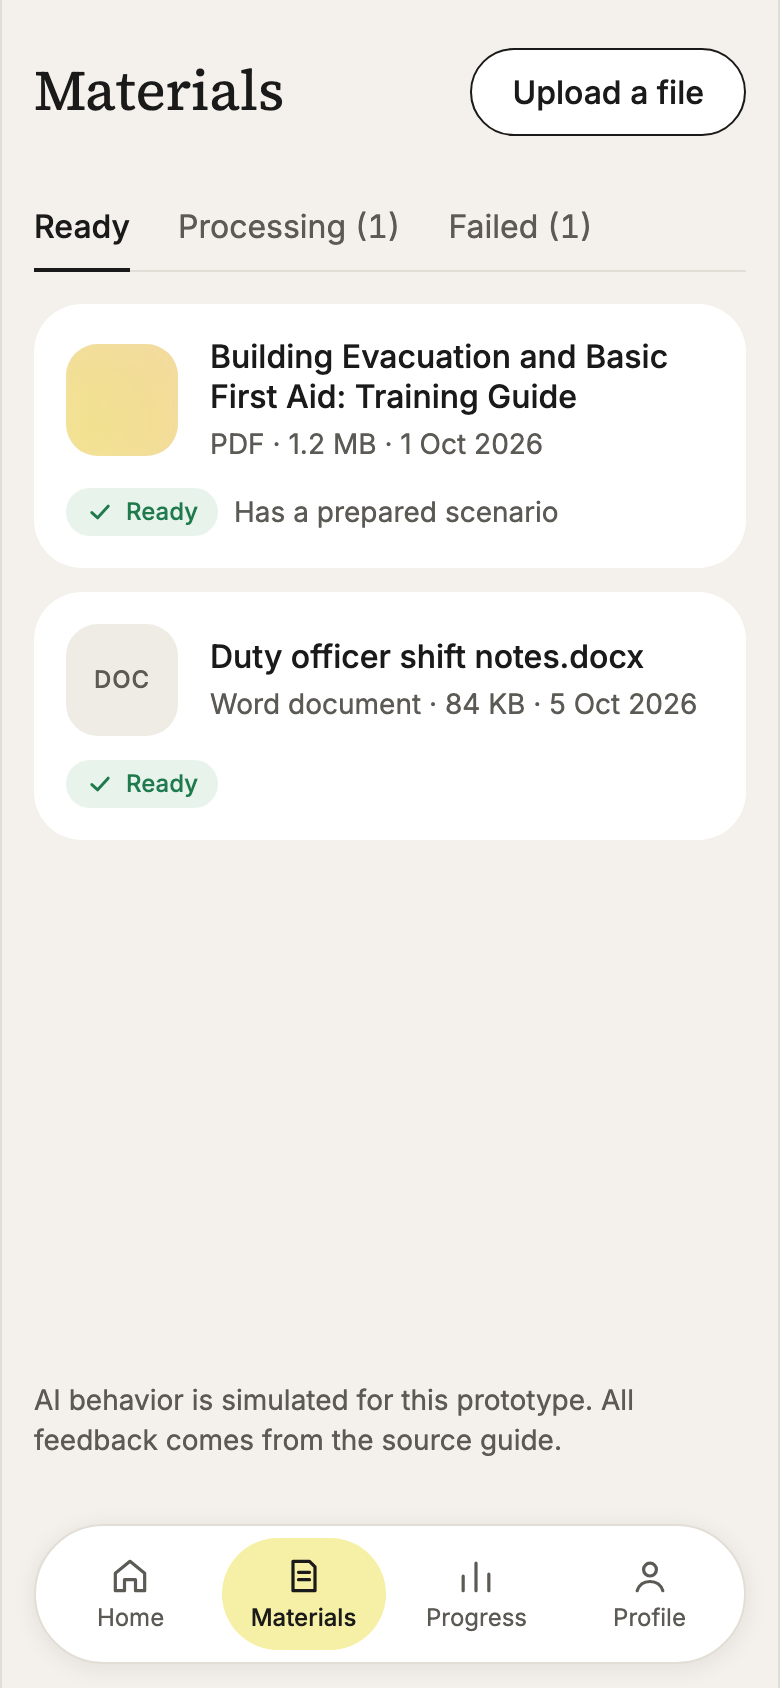
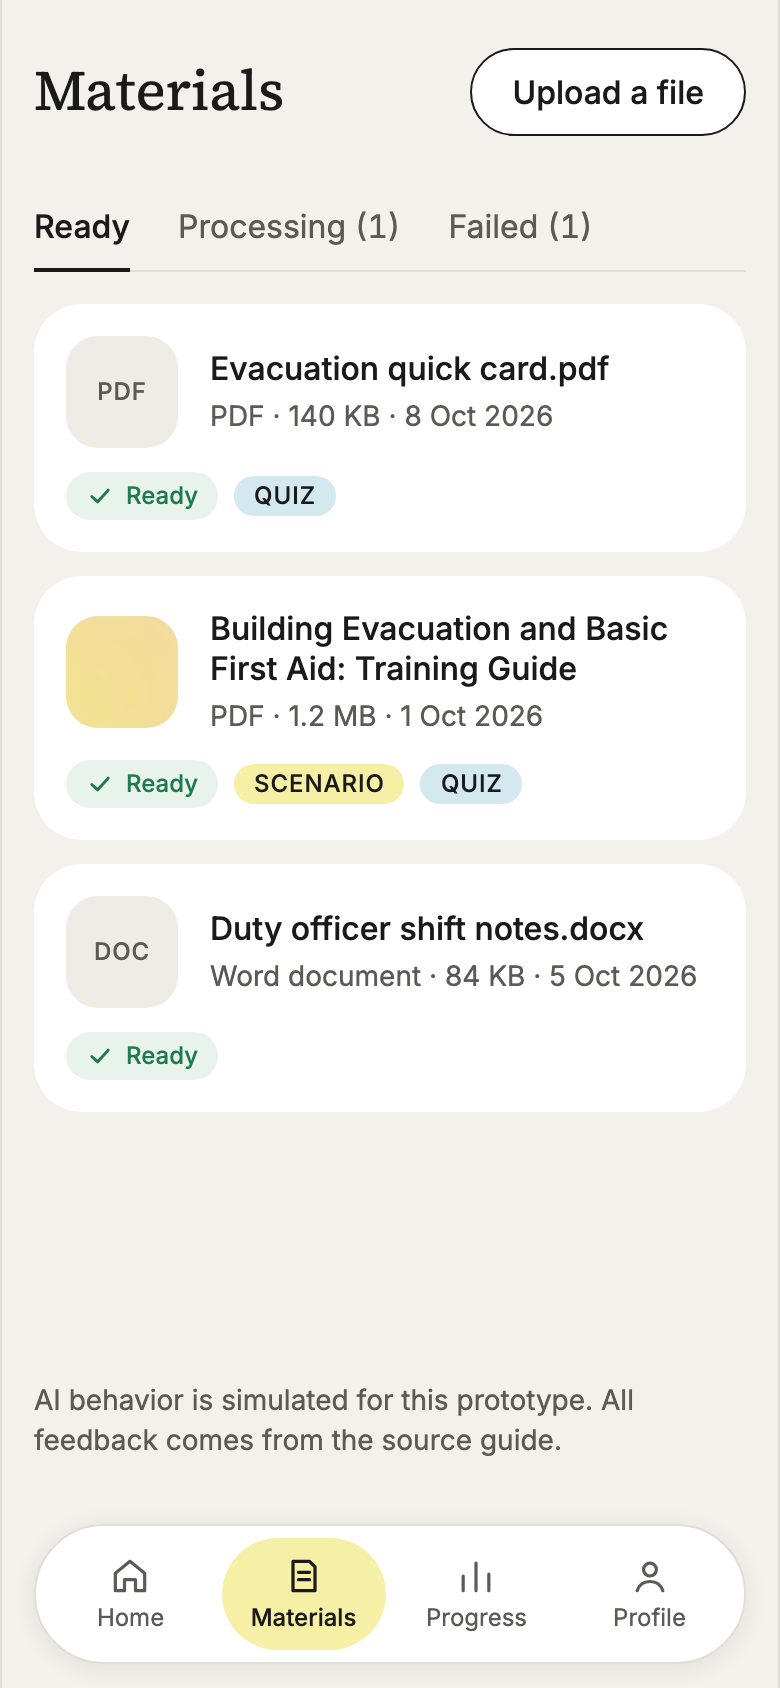
feat: training tags, start training and setup limited to the training
Materials show Scenario and Quiz tags once created; the material page offers
Create training, or Start training and Create again. Home New scenario and
onboarding open Create training. Session setup shows only the modes and
sections the training holds. Reset progress clears created trainings.

diff --git a/components/MaterialView/MaterialView.tsx b/components/MaterialView/MaterialView.tsx
@@ -1,5 +1,6 @@
 "use client";
 
+import { useRouter } from "next/navigation";
 import type { ReactNode } from "react";
 import { ActionBar } from "@/components/ActionBar/ActionBar";
 import { BackLink } from "@/components/BackLink/BackLink";
@@ -10,6 +11,8 @@ import { MaterialCover } from "@/components/MaterialCover/MaterialCover";
 import { useSourceSheet } from "@/components/SourceSheet/SourceSheet";
 import { StatusBadge } from "@/components/StatusBadge/StatusBadge";
 import { Tag } from "@/components/Tag/Tag";
+import { TrainingTags } from "@/components/TrainingTags/TrainingTags";
+import { startTraining, useTrainings } from "@/lib/trainings";
 import { UploadButton } from "@/components/UploadSheet/UploadSheet";
 import { formatAdded } from "@/lib/materials";
 import type { Material, MaterialSection } from "@/lib/materials";
@@ -64,6 +67,11 @@ export function MaterialView({
   sectionsOpenable: boolean;
   scenarioCard?: ReactNode;
 }) {
+  const router = useRouter();
+  const trainings = useTrainings();
+  const training = trainings === "loading" ? undefined : trainings?.[material.id];
+  const canCreate = material.status === "ready" && (material.sectionIds?.length ?? 0) > 0;
+
   return (
     <div className="flex flex-col gap-6">
       <BackLink href="/materials" label="Back to materials" />
@@ -75,6 +83,7 @@ export function MaterialView({
         )}
         <Tag tone="blue">{material.type}</Tag>
         <h1 className="font-serif text-2xl leading-tight break-words">{material.name}</h1>
+        <TrainingTags training={training} />
       </div>
 
       <Card>
@@ -122,14 +131,29 @@ export function MaterialView({
       </section>
 
       <ActionBar>
-        {material.hasScenario ? (
-          <ButtonLink href="/session/setup">Start scenario</ButtonLink>
+        {training ? (
+          <>
+            <Button
+              onClick={() => {
+                startTraining(material.id);
+                router.push("/session/setup");
+              }}
+            >
+              Start training
+            </Button>
+            <ButtonLink href={`/training/${material.id}`} variant="text">
+              Create again
+            </ButtonLink>
+          </>
+        ) : canCreate ? (
+          <ButtonLink href={`/training/${material.id}`}>Create training</ButtonLink>
         ) : (
           <>
             <p className="text-center text-sm text-text-secondary">
-              In this prototype a scenario is prepared for one material only.
+              In this prototype, training can be created from the sample guide and its quick card
+              only.
             </p>
-            <Button disabled>Start scenario</Button>
+            <Button disabled>Create training</Button>
             <ButtonLink href="/materials/evacuation-guide" variant="text">
               Open the sample guide
             </ButtonLink>

diff --git a/components/SessionSetup/SessionSetup.tsx b/components/SessionSetup/SessionSetup.tsx
@@ -11,6 +11,7 @@ import { Stepper } from "@/components/Stepper/Stepper";
 import { Tag } from "@/components/Tag/Tag";
 import { questionsFor, quizCounts } from "@/lib/quiz";
 import { scenario, sessionLengths } from "@/lib/scenario";
+import type { Training } from "@/lib/training";
 
 export type Length = "short" | "full" | "extended";
 
@@ -63,13 +64,26 @@ export function SessionSetup({
   onChange,
   onStart,
   replacesUnfinished = false,
+  training,
+  materialName,
 }: {
+  /** Shown under the title; the scenario's title when there is no training. */
+  materialName?: string;
+  /** The created training this setup belongs to; limits the modes and the quiz sections. */
+  training?: Pick<Training, "materialId" | "scenario" | "quiz" | "sections">;
   value: SetupValue;
   onChange: (value: SetupValue) => void;
   onStart: () => void;
   replacesUnfinished?: boolean;
 }) {
-  const { sections } = useSourceSheet();
+  const { sections: guideSections } = useSourceSheet();
+  const sections = training
+    ? guideSections.filter((section) => training.sections.includes(section.id))
+    : guideSections;
+  const modes = [
+    { value: "scenario" as const, label: "Scenario", allowed: !training || training.scenario },
+    { value: "quiz" as const, label: "Quiz", allowed: !training || training.quiz },
+  ].filter((mode) => mode.allowed);
   const { available, size } = quizSize(value);
   const quiz = value.mode === "quiz";
   const blocked = quiz && value.sections.length === 0;
@@ -83,22 +97,25 @@ export function SessionSetup({
 
   return (
     <div className="flex flex-col gap-6">
-      <BackLink href="/materials/evacuation-guide" />
+      <BackLink href={`/materials/${training?.materialId ?? "evacuation-guide"}`} />
       <div className="flex flex-col gap-1">
         <h1 className="font-serif text-2xl">Session setup</h1>
-        <p className="text-text-secondary">{scenario.title}</p>
+        <p className="break-words text-text-secondary">{materialName ?? scenario.title}</p>
       </div>
 
-      <SegmentedControl
-        name="mode"
-        legend="What do you want to do?"
-        options={[
-          { value: "scenario", label: "Scenario" },
-          { value: "quiz", label: "Quiz" },
-        ]}
-        value={value.mode}
-        onChange={(mode) => onChange({ ...value, mode })}
-      />
+      {modes.length > 1 ? (
+        <SegmentedControl
+          name="mode"
+          legend="What do you want to do?"
+          options={modes}
+          value={value.mode}
+          onChange={(mode) => onChange({ ...value, mode })}
+        />
+      ) : (
+        <p className="text-text-secondary">
+          This training has a {modes[0]?.value === "quiz" ? "quiz" : "scenario"} only.
+        </p>
+      )}
 
       {!quiz && (
         <fieldset className="flex flex-col gap-3">

diff --git a/components/MaterialsList/MaterialsList.tsx b/components/MaterialsList/MaterialsList.tsx
@@ -6,17 +6,22 @@ import { FileCover } from "@/components/FileCover/FileCover";
 import { MaterialCover } from "@/components/MaterialCover/MaterialCover";
 import { StatusBadge } from "@/components/StatusBadge/StatusBadge";
 import { Tabs, tabPanelProps } from "@/components/Tabs/Tabs";
+import { TrainingTags } from "@/components/TrainingTags/TrainingTags";
 import { UploadButton } from "@/components/UploadSheet/UploadSheet";
 import { formatAdded } from "@/lib/materials";
+import type { Training } from "@/lib/training";
+import { useTrainings } from "@/lib/trainings";
 import { useUploads } from "@/lib/uploads";
 import type { Material } from "@/lib/materials";
 
 function MaterialRow({
   material,
+  training,
   onUploadStart,
   onUploadEnd,
 }: {
   material: Material;
+  training: Training | undefined;
   onUploadStart: () => void;
   onUploadEnd: (status: "ready" | "failed") => void;
 }) {
@@ -33,9 +38,7 @@ function MaterialRow({
       </Link>
       <div className="flex flex-wrap items-center gap-2">
         <StatusBadge status={material.status} />
-        {material.hasScenario && (
-          <span className="text-sm text-text-secondary">Has a prepared scenario</span>
-        )}
+        <TrainingTags training={training} />
       </div>
       {material.status === "processing" && (
         <div
@@ -78,6 +81,7 @@ const emptyStates: Record<TabId, string> = {
 
 export function MaterialsList({ samples }: { samples: Material[] }) {
   const uploads = useUploads();
+  const trainings = useTrainings();
   const [tab, setTab] = useState<TabId>("ready");
   const all = [...(uploads === "loading" ? [] : (uploads ?? [])), ...samples];
   const count = (status: TabId) => all.filter((material) => material.status === status).length;
@@ -110,6 +114,7 @@ export function MaterialsList({ samples }: { samples: Material[] }) {
                 <li key={material.id}>
                   <MaterialRow
                     material={material}
+                    training={trainings === "loading" ? undefined : trainings?.[material.id]}
                     onUploadStart={() => setTab("processing")}
                     onUploadEnd={setTab}
                   />

diff --git a/app/(app)/session/setup/page.tsx b/app/(app)/session/setup/page.tsx
@@ -7,16 +7,36 @@ import type { SetupValue } from "@/components/SessionSetup/SessionSetup";
 import { pickQuestions } from "@/lib/quiz";
 import { sessionLengths } from "@/lib/scenario";
 import { startQuiz, startSession, useSession } from "@/lib/session";
+import type { Training } from "@/lib/training";
+import { sampleMaterials } from "@/lib/materials";
+import { useActiveTraining, useTrainings } from "@/lib/trainings";
+import { useMaterial } from "@/lib/uploads";
 
-export default function SetupPage() {
+function Setup({
+  training,
+  materialName,
+}: {
+  training: Training | undefined;
+  materialName: string | undefined;
+}) {
   const router = useRouter();
-  const [value, setValue] = useState<SetupValue>(defaultSetup);
   const session = useSession();
+  const [value, setValue] = useState<SetupValue>(() =>
+    training
+      ? {
+          ...defaultSetup,
+          mode: training.scenario ? "scenario" : "quiz",
+          sections: training.sections,
+        }
+      : defaultSetup,
+  );
 
   return (
     <SessionSetup
       value={value}
       onChange={setValue}
+      training={training}
+      materialName={materialName}
       replacesUnfinished={session !== "loading" && session !== null && !session.finished}
       onStart={() => {
         if (value.mode === "quiz") {
@@ -26,6 +46,21 @@ export default function SetupPage() {
         }
         router.push("/session");
       }}
+    />
+  );
+}
+
+export default function SetupPage() {
+  const trainings = useTrainings();
+  const active = useActiveTraining();
+  const material = useMaterial(active === "loading" ? "" : (active ?? ""), sampleMaterials);
+  if (trainings === "loading" || active === "loading" || material === "loading") return null;
+  const training = active ? trainings?.[active] : undefined;
+  return (
+    <Setup
+      key={training?.materialId ?? "none"}
+      training={training}
+      materialName={training && material ? material.name : undefined}
     />
   );
 }

diff --git a/components/ProfileView/ProfileView.tsx b/components/ProfileView/ProfileView.tsx
@@ -37,7 +37,8 @@ export function ProfileView({
           <div className="flex flex-col gap-1">
             <h3 className="font-medium">Reset progress</h3>
             <p className="text-sm text-text-secondary">
-              Deletes your saved sessions and weak topics on this device. Your direction stays.
+              Deletes your saved sessions, weak topics and created trainings on this device. Your
+              direction and uploaded files stay.
             </p>
           </div>
           <div>
@@ -47,7 +48,7 @@ export function ProfileView({
           </div>
           {resetDone && (
             <p role="status" className="text-sm">
-              Progress reset. Your sessions and weak topics are deleted.
+              Progress reset. Your sessions, weak topics and created trainings are deleted.
             </p>
           )}
         </div>
@@ -58,7 +59,7 @@ export function ProfileView({
           open={confirming}
           inline={dialogInline}
           title="Reset progress?"
-          description="This deletes your saved sessions and weak topics on this device. It cannot be undone."
+          description="This deletes your saved sessions, weak topics and created trainings on this device. It cannot be undone."
           confirmLabel="Reset progress"
           onConfirm={onReset}
           onCancel={onCancelReset}

diff --git a/components/UploadSheet/UploadSheet.tsx b/components/UploadSheet/UploadSheet.tsx
@@ -29,7 +29,9 @@ export function UploadPanel({
   onChooseFile,
   onClose,
   onOpenMaterial,
+  onCreateTraining,
 }: {
+  onCreateTraining: (id: string) => void;
   stage: Stage;
   onStage: (stage: Stage) => void;
   onChooseFile: (file: SampleFile) => void;
@@ -115,7 +117,10 @@ export function UploadPanel({
           ) : (
             <>
               <p className="text-text-secondary">The file is in your materials, under Ready.</p>
-              <Button onClick={() => onOpenMaterial(stage.material.id)}>Open material</Button>
+              <Button onClick={() => onCreateTraining(stage.material.id)}>Create training</Button>
+              <Button variant="text" onClick={() => onOpenMaterial(stage.material.id)}>
+                Open material
+              </Button>
             </>
           )}
         </div>
@@ -205,6 +210,10 @@ export function UploadButton({
           onOpenMaterial={(id) => {
             dialogRef.current?.close();
             router.push(`/materials/${id}`);
+          }}
+          onCreateTraining={(id) => {
+            dialogRef.current?.close();
+            router.push(`/training/${id}`);
           }}
         />
       </dialog>

diff --git a/components/HomeView/HomeView.tsx b/components/HomeView/HomeView.tsx
@@ -89,7 +89,7 @@ export function HomeView({
           </p>
           {unfinished && (
             <div className="mt-2">
-              <ButtonLink href="/session/setup" variant="secondary">
+              <ButtonLink href="/training/evacuation-guide" variant="secondary">
                 Start a new scenario
               </ButtonLink>
             </div>
@@ -101,7 +101,7 @@ export function HomeView({
         {unfinished ? (
           <ButtonLink href="/session">Continue session</ButtonLink>
         ) : (
-          <ButtonLink href="/session/setup">New scenario</ButtonLink>
+          <ButtonLink href="/training/evacuation-guide">New scenario</ButtonLink>
         )}
       </ActionBar>
     </div>

diff --git a/components/TrainingTags/TrainingTags.tsx b/components/TrainingTags/TrainingTags.tsx
@@ -1,0 +1,13 @@
+import { Tag } from "@/components/Tag/Tag";
+import type { Training } from "@/lib/training";
+
+/** Small "Scenario" and "Quiz" tags for a material whose training has been created. */
+export function TrainingTags({ training }: { training: Training | undefined }) {
+  if (!training) return null;
+  return (
+    <span className="flex flex-wrap gap-2">
+      {training.scenario && <Tag tone="yellow">Scenario</Tag>}
+      {training.quiz && <Tag tone="blue">Quiz</Tag>}
+    </span>
+  );
+}

diff --git a/app/screens/samples.tsx b/app/screens/samples.tsx
@@ -314,6 +314,7 @@ export function UploadSample({ state }: { state: "choose" | "progress" | "failed
             onChooseFile={() => undefined}
             onClose={() => undefined}
             onOpenMaterial={() => undefined}
+            onCreateTraining={() => undefined}
           />
         </div>
       </div>

diff --git a/app/(app)/onboarding/page.tsx b/app/(app)/onboarding/page.tsx
@@ -28,7 +28,7 @@ export default function Onboarding() {
         window.scrollTo(0, 0);
       }}
       onSkip={() => finish("/")}
-      onTry={() => finish("/session/setup")}
+      onTry={() => finish("/training/evacuation-guide")}
     />
   );
 }

diff --git a/README.md b/README.md
@@ -45,6 +45,7 @@ All four sections and the whole learning cycle can be clicked through:
 - Onboarding on the first visit: choose a direction (one available, three marked "Not available in this prototype"), how it works, an example scenario. It can be skipped.
 - Home: continue an unfinished session, weak topics from your saved sessions, start a new scenario.
 - Materials: tabs Ready, Processing and Failed over the sample guide plus sample "uploaded" items in every state (ready, processing, failed with a reason and "Try another file"), a simulated upload (choose a file, progress, Ready or Failed; only the file's name and size are used, nothing is read), and a material page with details, sections and excerpts. Only the sample guide has a prepared scenario.
+- Create training: upload a sample file (the guide, a one-page quick card, or a photo that fails), then "Create training" on a ready material or "New scenario" on Home. Choose Scenario and Quiz and the sections to keep, watch a simulated four-step generation (with Cancel), review every situation and question with its sources, and "Start training". The quick card is too short for a scenario and makes a quiz only. Created trainings show as Scenario and Quiz tags and are saved in this browser.
 - Session setup: Scenario (Short 3, Full 6 or Extended 10 decisions) or Quiz (one or more guide sections, 5, 10, 15 or a custom number of questions, capped at what the bank holds).
 - Decision step: an action, how sure you are, and one sentence on why you chose it.
 - Feedback: verdict, your answer vs the better one, why, error type, sources, what happened, the AI follow-up question with points a strong answer covers, and "Ask about this step" on the smoke step. Under your sentence, a simulated keyword match shows how many key points it covers ("Match with key points: 67%", covered or missing per point); it is for reference only and never changes the score.
@@ -61,7 +62,7 @@ Build order and decisions: `docs/build-plan.md`.
 ## Known limits
 
 - AI behavior is simulated. Every answer, follow-up question, chat reply and key point comes from the prepared scenario, and a trainee's explanation is never graded automatically. Free questions in Ask AI are matched by keywords, so rephrasing can change which prepared answer comes back.
-- Upload is simulated. A chosen file is never read: images, unsupported types and files over 20 MB fail with a reason, anything else becomes Ready. Uploaded items have no sections and no scenario.
+- Upload and generation are simulated. Upload offers sample files; generation shows prepared content. Only the guide has a prepared scenario and question bank, so the quick card's quiz uses the guide's S1 and S2 questions.
 - Short text answers are checked by matching accepted words and phrases, so an unusual but correct wording can be marked wrong.
 - Progress lives in one browser on one device. There are no accounts.
 

diff --git a/docs/build-plan.md b/docs/build-plan.md
@@ -1,6 +1,6 @@
 # Build plan
 
-One commit per screen group, in this order. Steps 1 to 15 are built; 16 is in progress. Steps 2 to 6 were first built as a thin clickable path through the whole cycle. Each commit runs `npm run lint`, `npm run typecheck` and `npm run build`, and saves a screenshot in `docs/screens/`.
+One commit per screen group, in this order. Steps 1 to 16 are built. Steps 2 to 6 were first built as a thin clickable path through the whole cycle. Each commit runs `npm run lint`, `npm run typecheck` and `npm run build`, and saves a screenshot in `docs/screens/`.
 
 1. Foundation refresh: tokens, pill buttons, cards, tags, gradient helper, four-item bottom navigation, storage helper. (A temporary "Coming next" screen stood in for unbuilt sections and is now removed.)
 2. Materials: list, material page, upload sequence.
